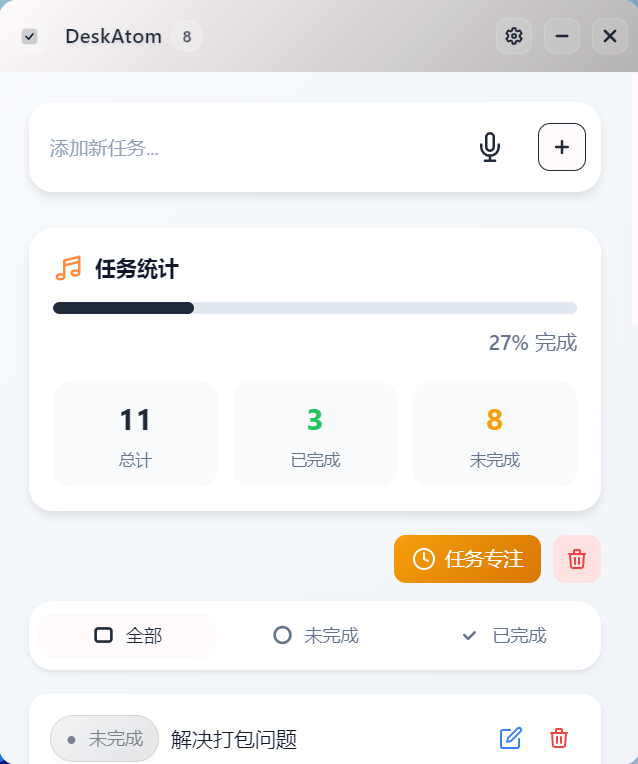
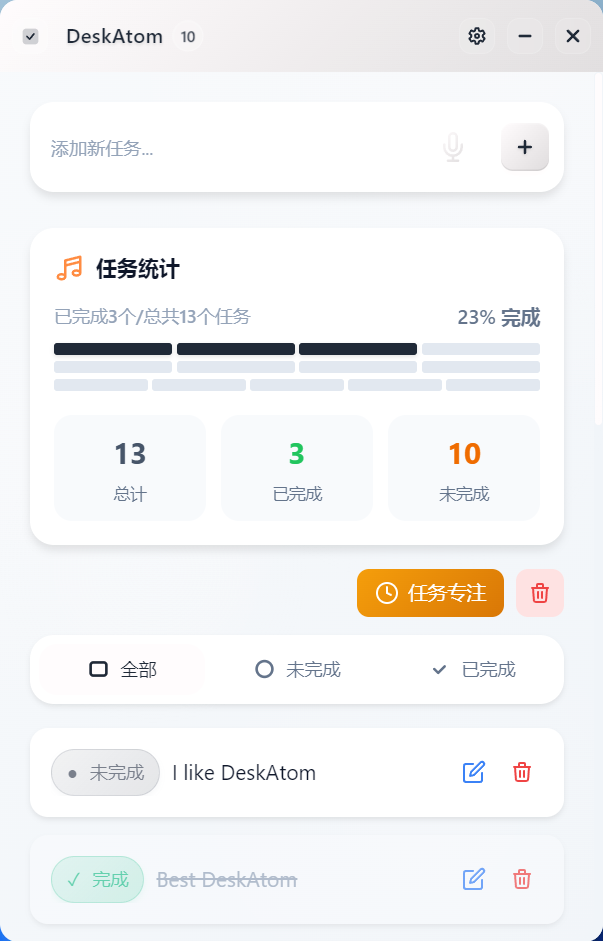
readme更新

diff --git a/src/App.vue b/src/App.vue
@@ -374,7 +374,7 @@ const progressPercentage = computed(() => {
   return Math.round((completedTasks.value / totalTasks.value) * 100)
 })
 
-const MIN_SEGMENT_WIDTH = 20
+const MIN_SEGMENT_WIDTH = 50
 const progressContainerWidth = ref(400)
 const progressContainerRef = ref(null)
 
@@ -1787,6 +1787,7 @@ onMounted(() => {
 }
 
 .dark-mode .progress-segment.filled {
+  background: var(--theme-color);
   box-shadow: 0 1px 3px rgba(0, 0, 0, 0.35);
 }
 

diff --git a/README.md b/README.md
@@ -55,15 +55,17 @@
 - **智能文字颜色** - 根据背景亮度自动调整文字颜色
 - **快捷操作** - 在专注模式下直接标记完成或删除任务
 
-![专注模式神秘出口](readme_pic/专注模式神秘出口.png)
-
-进入之后，看不见出口按钮？滚动条其实是退出按钮哦！
-
-### 🌙 暗夜模式
-
 ![暗夜专注模式](readme_pic/暗夜专注模式.png)
 
 暗夜模式下的专注模式，护眼又专注
+
+![透明度专注模式](readme_pic/透明度专注模式.png)
+
+可调节专注模式的透明度，适应不同工作环境
+
+### 🌙 暗夜模式
+
+![暗夜模式](readme_pic/暗夜模式.png)
 
 - **深色主题** - 护眼的深色配色方案
 - **全局适配** - 所有界面元素都完美适配暗夜模式
@@ -87,23 +89,21 @@
 
 可调节窗口透明度，打造个性化桌面体验
 
-![透明度专注模式](readme_pic/透明度专注模式.png)
-
-![透明度专注模式2](readme_pic/透明度专注模式2.png)
-
-可调节专注模式的透明度，适应不同工作环境。可任意调整窗口大小之后再进入专注模式，就可以调整专注模式的大小哦！
-
 ![浅色识别](readme_pic/浅色识别.png)
 
 担心浅色下字体和图标看不见？做了浅色适配，滑到浅色自动把字体和图标换为深色。
+
+![配色展示](readme_pic/配色展示.png)
+
+支持单色、双色渐变等多种配色方案
 
 ### 🖥 窗口管理
 
 ![窗口指示器1](readme_pic/窗口指示器1.png)
 
-![窗口指示器](readme_pic/窗口指示器.png)
-
 ![窗口指示器2](readme_pic/窗口指示器2.png)
+
+![窗口指示器3](readme_pic/窗口指示器3.png)
 
 最小化为小型指示器，节省屏幕空间，支持拖拽定位，自动吸附屏幕边缘
 
@@ -112,6 +112,18 @@
 - **窗口缩放** - 支持自由调整窗口大小
 - **最小尺寸限制** - 窗口最小 185x100 像素
 - **指示器模式** - 最小化为小型指示器，节省屏幕空间
+
+### 📱 响应式设计
+
+![响应式1](readme_pic/响应式1.png)
+
+![响应式2](readme_pic/响应式2.png)
+
+![响应式3](readme_pic/响应式3.png)
+
+- **自适应布局** - 界面元素根据窗口大小自动调整
+- **移动端友好** - 在小窗口下也能完美显示
+- **灵活换行** - 筛选按钮和统计卡片自动换行
 
 ### 💾 数据存储
 
@@ -123,12 +135,6 @@
 
 - **任务栏徽章** - 在任务栏图标上显示未完成任务数
 - **悬停提示** - 鼠标悬停显示任务统计信息
-
-### 📱 响应式设计
-
-- **自适应布局** - 界面元素根据窗口大小自动调整
-- **移动端友好** - 在小窗口下也能完美显示
-- **灵活换行** - 筛选按钮和统计卡片自动换行
 
 ***
 
@@ -142,8 +148,8 @@
 ### 1. 安装依赖
 
 ```bash
-git clone [repository-url]
-cd electron-todo-desktop
+git clone https://github.com/hecoococ/DeskAtom.git
+cd DeskAtom
 pnpm install
 ```
 
@@ -171,7 +177,7 @@ pnpm electron:build
 ## 📁 项目结构
 
 ```
-electron-todo-desktop/
+DeskAtom/
 ├── electron/              # Electron 主进程
 │   ├── main.js           # 主进程入口
 │   ├── preload.js        # 预加载脚本（主窗口）
